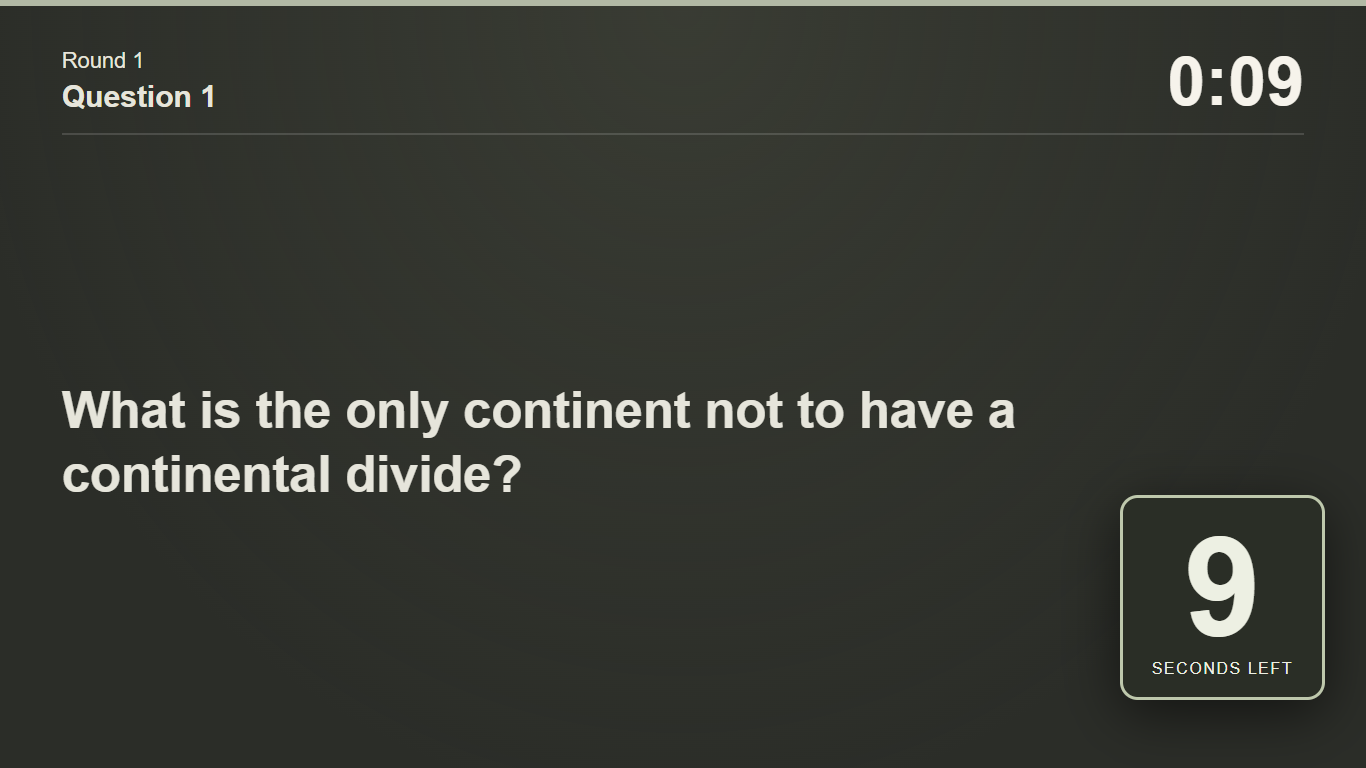
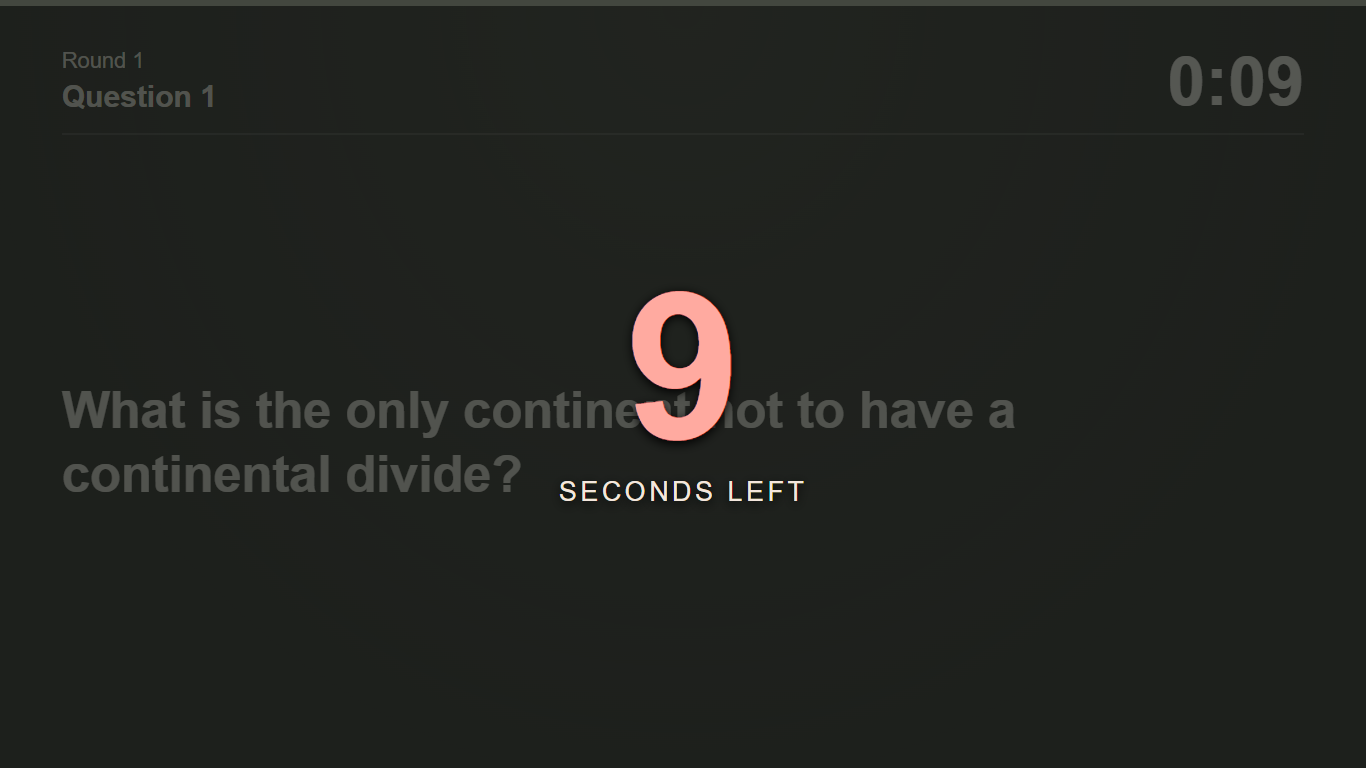
Animate time warnings over the trivia card and center the final countdown

diff --git a/src/trivia/dark.css b/src/trivia/dark.css
@@ -199,3 +199,13 @@
 .trivia-extension{color:#dfe5d2}.trivia-time-notice{background:#e3e6d7;color:#292e24;border-color:#f2f3e9}.trivia-countdown{background:#2a2e25f5;color:#edf0e3;border-color:#bec8ac}
 .trivia-slide .trivia-ranks .shown{background:#444e3a;border-left-color:#bbc9a7}
 @keyframes trivia-answer-flip{0%{transform:rotateX(0deg);color:transparent;background:#3c4035}49%{transform:rotateX(90deg);color:transparent;background:#3c4035}50%{transform:rotateX(-90deg);color:#292c25}100%{transform:rotateX(0deg)}}
+
+/* Timer warnings float over the card, arriving from the upper-right clock. */
+.trivia-time-notice{inset:0;transform:none;display:grid;place-items:center;padding:0;border:0;border-radius:0;background:transparent;box-shadow:none;pointer-events:none;color:#ffaaa0;font-size:5cqw;text-shadow:0 .2cqw .8cqw #000;white-space:nowrap}
+.trivia-time-notice:before{content:'';position:absolute;inset:0;background:#171b18b8;animation:trivia-warning-shade 2.8s ease both}
+.trivia-time-notice>span{position:relative;animation:trivia-warning-flight 2.8s cubic-bezier(.2,.7,.2,1) both}
+@keyframes trivia-warning-flight{0%{opacity:0;transform:translate(25cqw,-21cqw) scale(.35)}14%,79%{opacity:1;transform:translate(0,0) scale(1)}100%{opacity:0;transform:translate(25cqw,-21cqw) scale(.35)}}
+@keyframes trivia-warning-shade{0%,100%{opacity:0}14%,79%{opacity:1}}
+.trivia-countdown{inset:0;width:auto;min-height:0;border:0;border-radius:0;background:#171b18b8;box-shadow:none;color:#ffaaa0;text-shadow:0 .2cqw .8cqw #000}
+.trivia-countdown b{font-size:15cqw}.trivia-countdown span{font-size:2cqw;letter-spacing:.12em;color:#f4e7dd}
+@media(prefers-reduced-motion:reduce){.trivia-time-notice>span{animation:trivia-warning-shade 2.8s ease both}}

diff --git a/src/trivia/TriviaApp.tsx b/src/trivia/TriviaApp.tsx
@@ -65,7 +65,7 @@ function TriviaDisplayContent({deck,session:s,now}:{deck:TriviaDeck;session:Triv
   const showing=s.phase==='answers';
   return <section className={`trivia-stage ${showing?'trivia-answers':''} ${parts.items.length?'has-prompts':''}`}>
     {!showing&&s.end!==null&&left>0&&left<=10&&<div className="trivia-countdown" role="status"><b>{Math.ceil(left)}</b><span>SECONDS LEFT</span></div>}
-    {!showing&&s.end!==null&&((left<=60&&left>57)||(left<=30&&left>27))&&<div className="trivia-time-notice" role="status">{left>30?'1 minute remaining':'30 seconds remaining'}</div>}
+    {!showing&&s.end!==null&&((left<=60&&left>57)||(left<=30&&left>27))&&<div className="trivia-time-notice" role="status" key={`${s.end}:${left>30?60:30}`}><span>{left>30?'1 minute remaining':'30 seconds remaining'}</span></div>}
     <header><span>{c.round}<strong>{c.title}</strong></span>{c.kind==='question'&&!showing&&<b className={s.started&&left===0?'time-up':''}>{s.started&&left===0?'TIME’S UP':formatTime(left)}{s.extensionAt!==undefined&&now-s.extensionAt<3000&&<small className="trivia-extension" key={s.extensionAt}>+30 seconds</small>}</b>}</header>
     <div className="trivia-question-body" data-length={parts.question.length>300?'long':parts.question.length>160?'medium':'short'}>
       <h2 className="trivia-question-text"><RichText text={parts.question||c.title}/></h2>

diff --git a/README.md b/README.md
@@ -200,6 +200,6 @@ All question inputs stay visible together, with compact headers such as R1Q4 and
 
 ### Trivia timer cues and answer animation
 
-Enter durations in seconds (10–3600). At 60 and 30 seconds remaining, a brief audience notice and gentle tone announce the time. The last ten seconds have a large foreground countdown and quiet ticks. Pausing hides the countdown; adding time removes it immediately when more than ten seconds remain and displays **+30 seconds** beside the timer. Sound follows presenter mute/volume and never duplicates on the TV.
+Enter durations in seconds (10–3600). At 60 and 30 seconds remaining, large coral text travels down from the timer over a dimmed card, holds briefly, then returns to the timer, accompanied by a gentle tone. The last ten seconds have a large centered countdown over the dimmed card and quiet ticks; the countdown stays until time expires. Pausing hides the countdown; adding time removes it immediately when more than ten seconds remain and displays **+30 seconds** beside the timer. Sound follows presenter mute/volume and never duplicates on the TV.
 
 **Show answer board** pauses the clock, hides the audience timer, moves the question upward, and brings in empty answer boxes. **Reveal next answer** quickly flips each box to its soft ivory answer face. You can also reveal directly without preparing the board. Single answers are large and centered, without numbering. Reduced-motion preferences disable movement. The private score-sheet answer card is unchanged.

diff --git a/TEST-REPORT.md b/TEST-REPORT.md
@@ -144,3 +144,7 @@ TypeScript, lint, production build and 54 unit tests pass. New timer/answer brow
 ### Softer theme and faster answer flips
 
 Removed the intro tagline. Trivia uses warm charcoal and ivory instead of purple/blue/gold surfaces. Answer flips and their text reveal now take 240 ms instead of 500 ms, with reduced-motion behavior retained. TypeScript, lint, production build, presenter timing/layout and countdown/reveal browser checks pass. Intro and answer screenshots were visually inspected.
+
+### Full-card time warnings
+
+60/30-second warnings now animate from the clock area over a dimmed card and retreat after a brief hold. The final countdown covers the card until expiration, pause or extension. TypeScript, lint, build and the timer browser regression verify synchronized notices, dismissal, full-width countdown, sounds and +30 removal. Reduced-motion mode fades the warning instead of moving it.
